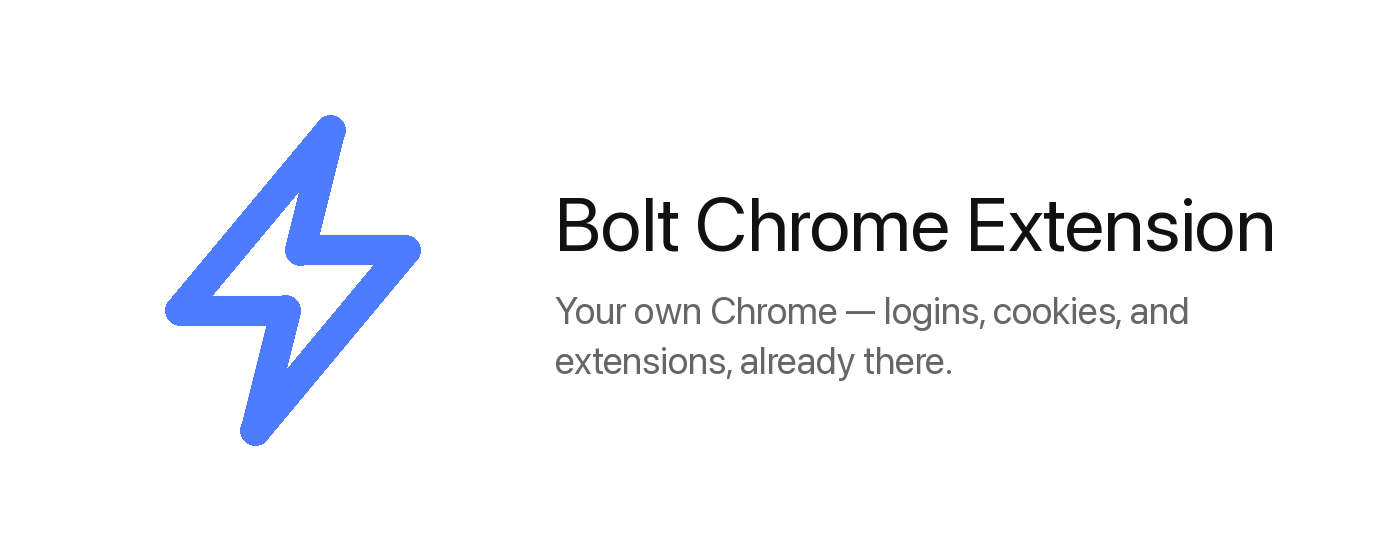
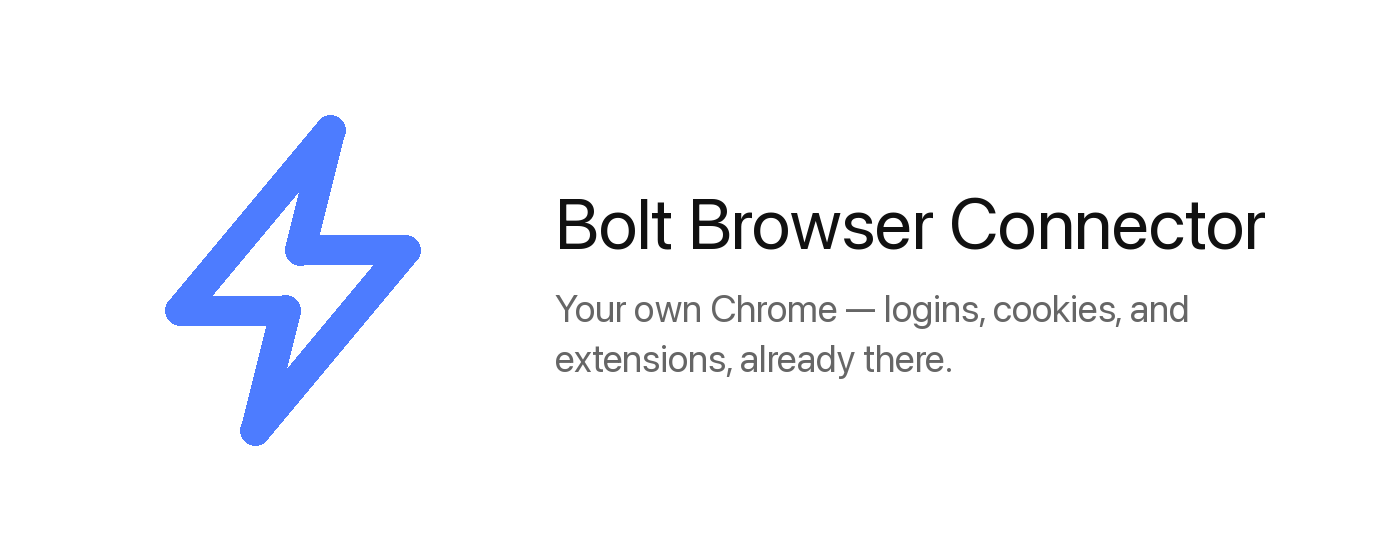
Rename to Bolt Browser Connector 1.0.0 for the Chrome Web Store listing

Changed region(s): [[0.3993, 0.3339, 0.9214, 0.4554], [0.3993, 0.5161, 0.86, 0.6679]]

diff --git a/extension/src/background.ts b/extension/src/background.ts
@@ -224,7 +224,7 @@ class ConnectionManager {
     }
 
     if (store.getState().connectionState === 'extension-replaced') {
-      throw new Error('Another Bolt Chrome Extension is already connected')
+      throw new Error('Another Bolt Browser Connector is already connected')
     }
 
     // Reuse in-progress connection attempt - prevents races between user clicks and maintain loop
@@ -564,7 +564,7 @@ class ConnectionManager {
       store.setState({
         tabs: new Map(),
         connectionState: 'extension-replaced',
-        errorText: 'Another Bolt Chrome Extension took over the connection',
+        errorText: 'Another Bolt Browser Connector took over the connection',
       })
       return
     }
@@ -574,7 +574,7 @@ class ConnectionManager {
       store.setState({
         tabs: new Map(),
         connectionState: 'extension-replaced',
-        errorText: 'Another Bolt Chrome Extension is actively in use',
+        errorText: 'Another Bolt Browser Connector is actively in use',
       })
       return
     }
@@ -680,7 +680,7 @@ class ConnectionManager {
         if (error.message === 'Extension Already In Use') {
           store.setState({
             connectionState: 'extension-replaced',
-            errorText: 'Another Bolt Chrome Extension is actively in use',
+            errorText: 'Another Bolt Browser Connector is actively in use',
           })
         } else {
           store.setState({ connectionState: 'idle' })
@@ -3195,7 +3195,7 @@ async function connectTab(tabId: number): Promise<void> {
     // Extension in use: set global 'extension-replaced' state to enter polling mode
     const isExtensionInUse =
       error.message === 'Extension Already In Use' ||
-      error.message === 'Another Bolt Chrome Extension is already connected'
+      error.message === 'Another Bolt Browser Connector is already connected'
 
     const isWsError =
       error.message === 'Server not available' ||
@@ -3210,7 +3210,7 @@ async function connectTab(tabId: number): Promise<void> {
         return {
           tabs: newTabs,
           connectionState: 'extension-replaced',
-          errorText: 'Another Bolt Chrome Extension is actively in use',
+          errorText: 'Another Bolt Browser Connector is actively in use',
         }
       })
     } else if (isWsError) {
@@ -3337,7 +3337,7 @@ const icons = {
       '48': '/icons/icon-gray-48.png',
       '128': '/icons/icon-gray-128.png',
     },
-    title: 'Waiting for the local Bolt relay. Start the app, then try again.',
+    title: 'The Bolt app isn\'t running. Open Bolt (trybolt.ai/download), then click again.',
     badgeText: '...',
     badgeColor: [64, 64, 64, 255] as [number, number, number, number],
   },
@@ -3381,7 +3381,7 @@ const icons = {
       '48': '/icons/icon-red-48.png',
       '128': '/icons/icon-red-128.png',
     },
-    title: 'Another Bolt Chrome Extension connected - Click to retry',
+    title: 'Another Bolt Browser Connector connected - Click to retry',
     badgeText: '!',
     badgeColor: [220, 38, 38, 255] as [number, number, number, number],
   },

diff --git a/extension/src/welcome.html b/extension/src/welcome.html
@@ -4,7 +4,7 @@
     <meta charset="UTF-8" />
     <meta name="viewport" content="width=device-width, initial-scale=1.0" />
     <meta name="color-scheme" content="dark light" />
-    <title>Bolt Chrome Extension</title>
+    <title>Bolt Browser Connector</title>
     <style>
       :root {
         --bg: #ffffff;
@@ -159,7 +159,7 @@
   <body>
     <main>
       <section class="intro">
-        <p class="label">Bolt Chrome Extension</p>
+        <p class="label">Bolt Browser Connector</p>
         <h1>Use Bolt with the tab you choose.</h1>
         <p class="lead">
           Open the site you want, then click the extension on that tab. Bolt will ask before taking
@@ -172,7 +172,7 @@
             <span class="number">1</span>
             <div>
               <strong>Open Bolt</strong>
-              <p>Keep the app running while you use the extension.</p>
+              <p>Keep the app running while you use the extension. Don't have it yet? <a href="https://trybolt.ai/download" target="_blank" rel="noopener">Download Bolt for Mac</a>.</p>
             </div>
           </li>
           <li>

diff --git a/store-assets/generate-store-assets.py b/store-assets/generate-store-assets.py
@@ -1,5 +1,5 @@
 #!/usr/bin/env python3
-"""Generate Chrome Web Store graphic assets for the Bolt Chrome Extension.
+"""Generate Chrome Web Store graphic assets for the Bolt Browser Connector.
 
 Brand (see scripts/build-browser-extension-brand-assets.mjs): a lightning-bolt
 drawn as an OUTLINE in Bolt brand blue (#4d7cff) on a WHITE background. No
@@ -99,13 +99,13 @@ bx, RIGHT_PAD = 150, 120
 m.paste(bolt, (bx, (H - bolt.height) // 2), bolt)
 tx = bx + bolt.width + 120
 avail = W - tx - RIGHT_PAD                      # enforce right padding
-title_f = fit_font(d, "Bolt Chrome Extension", avail, 84, bold=True, floor=44)
+title_f = fit_font(d, "Bolt Browser Connector", avail, 84, bold=True, floor=44)
 tag_f = font(38, bold=False)
 tag_lines = wrap(d, "Your own Chrome \u2014 logins, cookies, and extensions, already there.",
                  tag_f, avail)
 th = (title_f.size + 30) + len(tag_lines) * 50
 y0 = (H - th) // 2
-d.text((tx, y0), "Bolt Chrome Extension", font=title_f, fill=TEXT)
+d.text((tx, y0), "Bolt Browser Connector", font=title_f, fill=TEXT)
 for i, ln in enumerate(tag_lines):
     d.text((tx, y0 + title_f.size + 34 + i * 50), ln, font=tag_f, fill=MUTED)
 m.save(os.path.join(OUT, "promo-marquee-1400x560.png"))
@@ -121,7 +121,7 @@ bolt = draw_bolt(112)
 s.paste(bolt, ((W - bolt.width) // 2, 34), bolt)
 tf = font(30, bold=True)
 gf = font(18, bold=False)
-t = "Bolt Chrome Extension"
+t = "Bolt Browser Connector"
 d.text(((W - tw(d, t, tf)) // 2, 182), t, font=tf, fill=TEXT)
 g = "Automate your own Chrome"
 d.text(((W - tw(d, g, gf)) // 2, 224), g, font=gf, fill=MUTED)

diff --git a/extension/permissions.md b/extension/permissions.md
@@ -1,80 +1,50 @@
 # Chrome Web Store Submission Justifications
 
+Paste each section into the matching field of the Chrome Web Store dashboard
+(Privacy practices tab). Keep this file in sync with `manifest.json`: every
+permission listed there must have a section here, and nothing else.
+
 ## Single Purpose Description
 
-Connects browser tabs to local Playwright automation scripts via Chrome DevTools Protocol, allowing users to automate and control their browser for testing and development without launching a separate Chrome instance.
+Bolt Browser Connector connects the Bolt desktop app (an AI assistant for Mac) to the Chrome tabs the user chooses, so Bolt's agents can read and act on those pages, for example filling a form or collecting information from a site the user is signed in to. It has no features of its own outside that connection.
 
 ## Permission Justifications
 
-### activeTab
-
-Required to attach the Chrome debugger to the current tab when the user clicks the extension icon. Allows the extension to access only the tab that the user explicitly activates.
-
 ### debugger
 
-Essential for core functionality. This permission allows the extension to attach Chrome DevTools Protocol (CDP) to tabs selected by the user (via clicking the extension icon). CDP access enables the extension to relay automation commands from local Playwright scripts to the browser, allowing actions like page navigation, element interaction, and JavaScript execution for testing and development purposes.
+Core to the extension's single purpose. When the user connects a tab, the extension attaches the Chrome DevTools Protocol to that tab and relays commands from the Bolt desktop app running on the same computer: reading the page, navigating, clicking, and typing. It attaches only to tabs the user connected and tabs Bolt opened for the user's task, and detaches when the user disconnects the tab.
 
-### tabs (Testing Only - Removed in Production Builds)
+### scripting
 
-**Note: This permission is automatically removed during production builds and is only included in test builds.**
+Used to run small page scripts in connected tabs, for example to read the visible text and structure of a page or highlight the element Bolt is about to act on. Scripts run only in tabs connected to Bolt.
 
-The tabs permission is only needed during development/testing to:
+### contextMenus
 
-- Access the URL property of tabs for test identification (finding tabs by URL pattern)
-- Query all tabs with full information for test assertions
+Adds a single "Copy Bolt Element Reference" item to the right-click menu. It is shown only on a tab connected to Bolt, and lets the user point Bolt at a specific element on the page.
 
-In production, the extension functions perfectly without the tabs permission because:
+### tabs
 
-- Tab event listeners (onRemoved, onActivated, onUpdated) work without it
-- chrome.tabs.create() and chrome.tabs.remove() work without it
-- chrome.tabs.query() for active tab works without it
-- chrome.tabs.get() works without it (returns limited info which is sufficient)
-
-The build process (vite.config.mts) automatically removes this permission when TESTING environment variable is not set.
+Used to show the user and Bolt which tab is connected: reading a connected tab's title and URL, opening a new tab when Bolt's task needs a website, and reacting when a connected tab is closed or changes page.
 
 ### tabGroups
 
-Used to place the tab an agent is working on into a "Bolt Agent" tab group, collapsed while the user is on another tab, so the user can see which tab the agent is driving and keep it out of the way. The tab is ungrouped when the agent finishes.
+Places the tabs Bolt is working in into a labelled "Bolt Agent" tab group, so the user can always see which tabs Bolt is using. The group collapses while the user is on another tab and is removed when Bolt finishes.
+
+### windows
+
+Used to bring the window that holds Bolt's tab to the front when the user asks to see it, and to keep track of which window is focused so Bolt acts in the right one.
 
 ### host_permissions (<all_urls>)
 
-Required to attach the debugger to tabs on any domain the user chooses to automate. This permission does not allow the extension to modify page content or inject scripts - it only enables CDP debugger attachment for automation. Users need this flexibility to test and automate workflows across all websites.
+The user decides which site to connect, and that can be any website: their email, a CRM, a government form. Bolt can't know the site in advance, so the extension needs access to any URL, but it only acts in tabs the user connected or tabs Bolt opened for the user's request.
 
-## Remote Code Justification
+## Remote code
 
-**This extension does NOT download, load, or execute any remote code.**
+No. All extension code is bundled in the package. The extension does not load or run code from any server.
 
-All extension code (JavaScript, HTML, CSS) is fully bundled within the extension package and statically reviewed.
+## Data usage
 
-**WebSocket Connection (localhost only):**
-The extension establishes a WebSocket connection to `ws://localhost:19988` - a local server running on the user's own machine. This connection is used exclusively for **message passing** (sending and receiving JSON data), NOT code execution.
-
-**What the WebSocket is used for:**
-
-- Receiving CDP (Chrome DevTools Protocol) command messages in JSON format from local Playwright scripts
-- Forwarding these command messages to attached browser tabs via the `chrome.debugger` API
-- Sending CDP event messages back to the local Playwright scripts
-
-**What it is NOT used for:**
-
-- Downloading or executing JavaScript, WebAssembly, or any other executable code
-- Connecting to external/remote servers (strictly localhost only)
-- Loading remote configurations that modify extension behavior
-
-This is functionally similar to Native Messaging but uses WebSockets for cross-platform compatibility with existing Playwright tooling. The WebSocket serves as a local IPC (inter-process communication) channel, not a remote code delivery mechanism.
-
-## Data Collection & Privacy
-
-- No data is collected or transmitted to external servers
-- All browser control happens locally through Chrome DevTools Protocol
-- WebSocket connection is localhost-only (ws://localhost:19988)
-- Extension operates entirely on the user's machine
-- No analytics, tracking, or telemetry
-
-## Screenshots Required
-
-Need to provide at least one screenshot showing:
-
-- Extension icon in toolbar (gray when disconnected, green when connected)
-- Extension attached to a tab with Chrome's "debugging this browser" banner visible
-- Welcome page or usage demonstration
+- The extension sends page content only to the Bolt desktop app on the user's own computer, over a local connection (`127.0.0.1`). It does not send data to any remote server, and it collects no analytics.
+- The Bolt desktop app may send that content to the AI model it uses to carry out the user's request, as described in Bolt's privacy policy (https://trybolt.ai/privacy).
+- It does not sell or transfer user data to third parties, does not use it for purposes unrelated to the single purpose above, and does not use it to determine creditworthiness or for lending.
+- Data types to declare: "Website content" (pages in connected tabs, shared only with the local Bolt app).

diff --git a/extension/STORE-LISTING.md b/extension/STORE-LISTING.md
@@ -1,0 +1,61 @@
+# Chrome Web Store listing: Bolt Browser Connector
+
+Copy for the Store listing tab. Permission and privacy answers are in
+`permissions.md`.
+
+## Name
+
+Bolt Browser Connector
+
+## Summary (132 characters max; matches the manifest description)
+
+Lets the Bolt desktop app work in Chrome tabs you choose: Bolt agents read and act on pages you connect, in a labelled tab group.
+
+## Category
+
+Productivity / Workflow & Planning
+
+## Description
+
+Bolt Browser Connector links Chrome to Bolt, the AI assistant for Mac. With it, you can ask Bolt to do things on the websites you already use, in your own Chrome, where you are already signed in.
+
+This extension needs the Bolt desktop app. Download it at https://trybolt.ai/download.
+
+What you can ask Bolt to do:
+• Fill out a long web form from a document or spreadsheet on your Mac.
+• Collect details from a site you are signed in to, such as order history or account settings, and put them in a file.
+• Look something up on a website and summarize it in your Bolt chat.
+
+How it works:
+1. Install the Bolt app for Mac and keep it running.
+2. Open the site you want and click the Bolt icon on that tab. The tab is now connected, and the icon shows its status.
+3. Ask Bolt in the app. When a task needs a different site, Bolt opens its own tab.
+
+You stay in control:
+• Bolt only works in tabs you connect and tabs it opens for your request.
+• Tabs Bolt is using are grouped under a "Bolt Agent" tab group, so you can always see them.
+• Click the icon again to disconnect a tab at any time.
+• The extension talks only to the Bolt app on your own computer. It has no servers of its own and collects no analytics.
+
+Privacy policy: https://trybolt.ai/privacy
+
+## Screenshots (1280x800, at least one; use real captures)
+
+Capture these from a real session rather than the generated graphic in
+`store-assets/screenshot-1280x800.png`:
+
+1. A connected tab: the Bolt icon showing "connected" and the "Bolt Agent" tab group.
+2. The Bolt app chat beside Chrome while Bolt fills a form in that tab.
+3. The welcome page that opens after install (its steps and download link).
+
+## Notes for the reviewer (Distribution tab, "Test instructions")
+
+This extension has no standalone UI: it connects Chrome to the Bolt desktop app for macOS, so testing needs the app.
+
+1. On a Mac (Apple silicon), download Bolt from https://trybolt.ai/download and open it.
+2. Sign in with the test account: <REVIEWER_EMAIL> / <REVIEWER_PASSWORD>.
+3. In Chrome, open https://example.com and click the Bolt Browser Connector icon. The icon turns to its connected state.
+4. In the Bolt app, start a new chat and type: "In my connected Chrome tab, tell me the page's heading, then open wikipedia.org in a new tab."
+5. Bolt reads the heading from the connected tab, then opens a new tab inside a "Bolt Agent" tab group.
+
+Without the app running, the icon's tooltip reads "The Bolt app isn't running. Open Bolt (trybolt.ai/download), then click again." That is expected.
